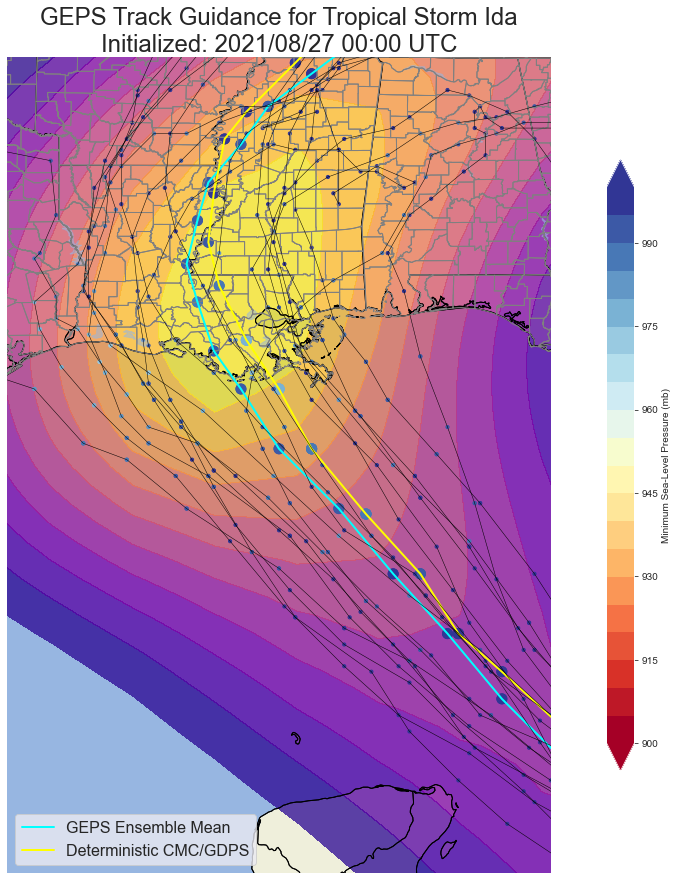
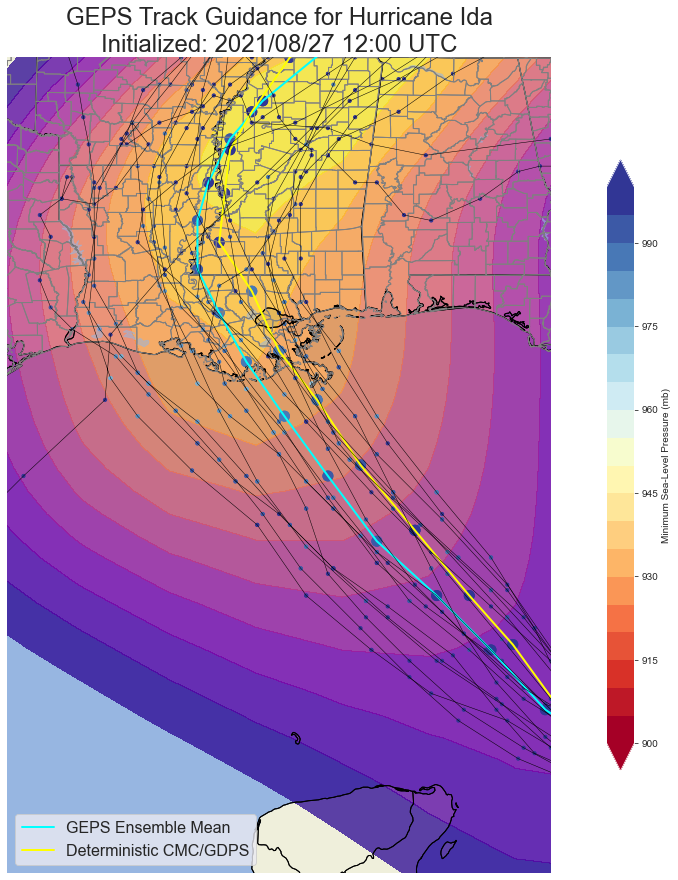
Minor aesthetic changes.
Changed axhline color for tropical storm from cyan to orange.

diff --git a/atcf.py b/atcf.py
@@ -43,11 +43,11 @@ def density_estimation(m1,m2):
     return X,Y,Z
 
 # settings
-systemname = 'Tropical Storm Ida'           # formal name (e.g. "Hurricane Wilma")
+systemname = 'Hurricane Ida'                # formal name (e.g. "Hurricane Wilma")
 savedir = 'images'                          # output directory
 systemid = '09L'                            # system ID number (e.g. "09L")
 map_limit = True                            # limit the map extent? otherwise plot entire domain
-map_extent = [-95, -85, 20, 35]            # [west,east,south,north]
+map_extent = [-95, -85, 20, 35]             # [west,east,south,north]
 kde_levs = 11                               # how many color levels to plot for KDE
 kde_color = 'plasma'                        # colormap to use for KDE plots
 nhc_intensity = False                       # plot official intensity? (broken at the moment)
@@ -346,8 +346,8 @@ for ix,dataset in enumerate(datasets):
     ax.tick_params(axis='y',labelsize=16)
     
     # category lines
-    fig.axhline(34,linestyle='-',color='cyan')
-    fig.text(0.25,36,'Tropical Storm',weight='bold',size=14,color='cyan')
+    fig.axhline(34,linestyle='-',color='orange')
+    fig.text(0.25,36,'Tropical Storm',weight='bold',size=14,color='orange')
     fig.axhline(64,linestyle='-',color='red')
     fig.text(0.25,66,'Hurricane/Category 1',weight='bold',size=14,color='red')
     fig.axhline(83,linestyle='--',color='gray')
